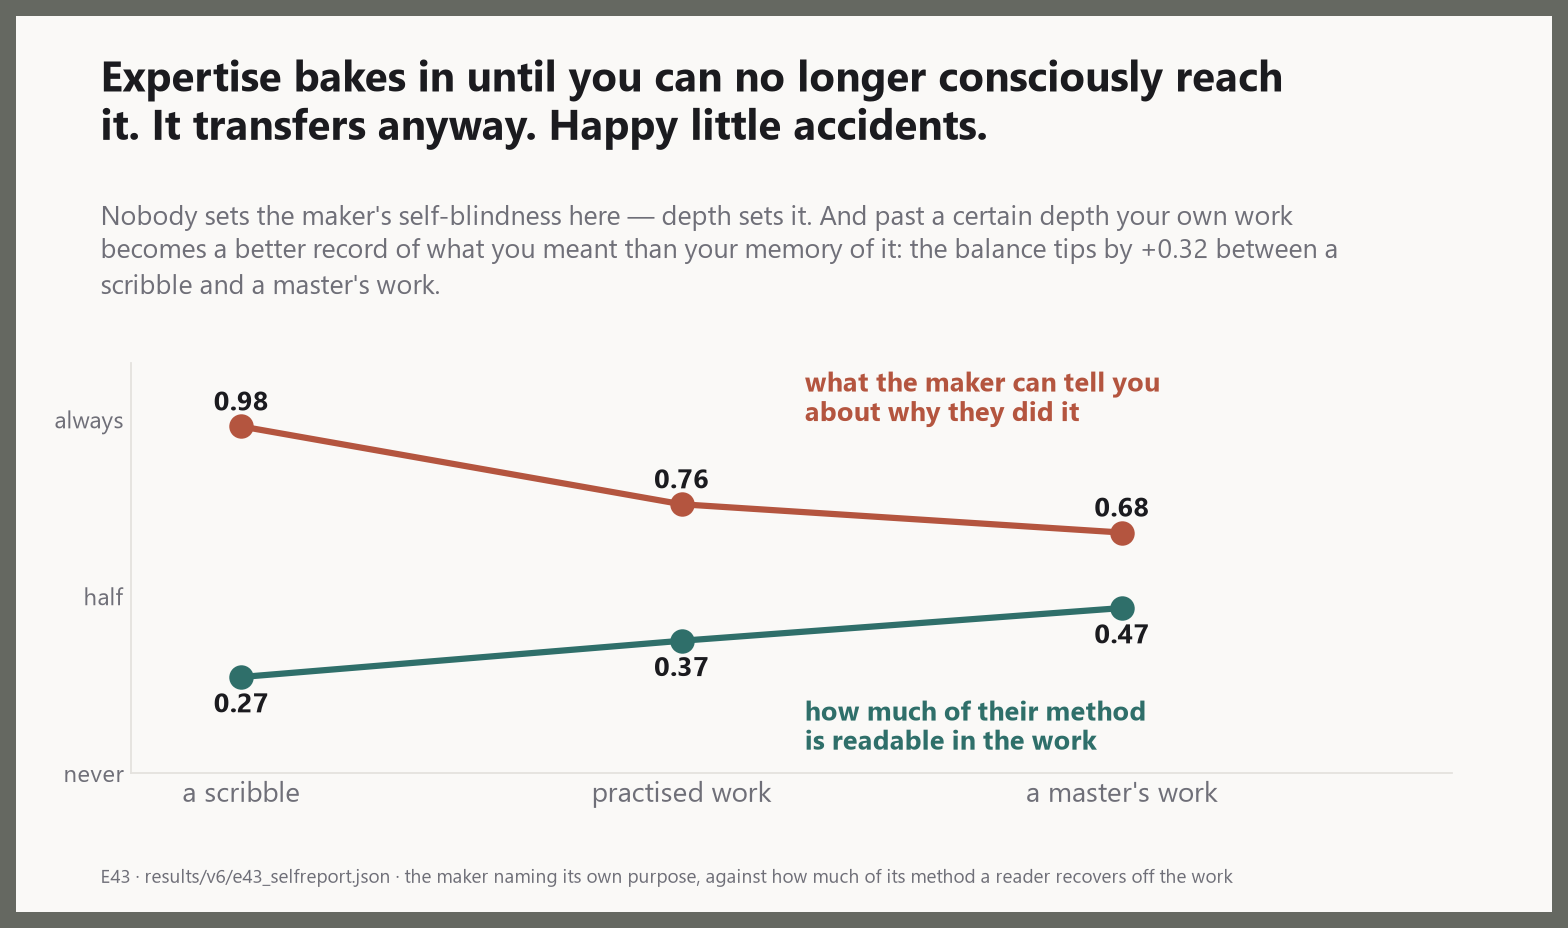
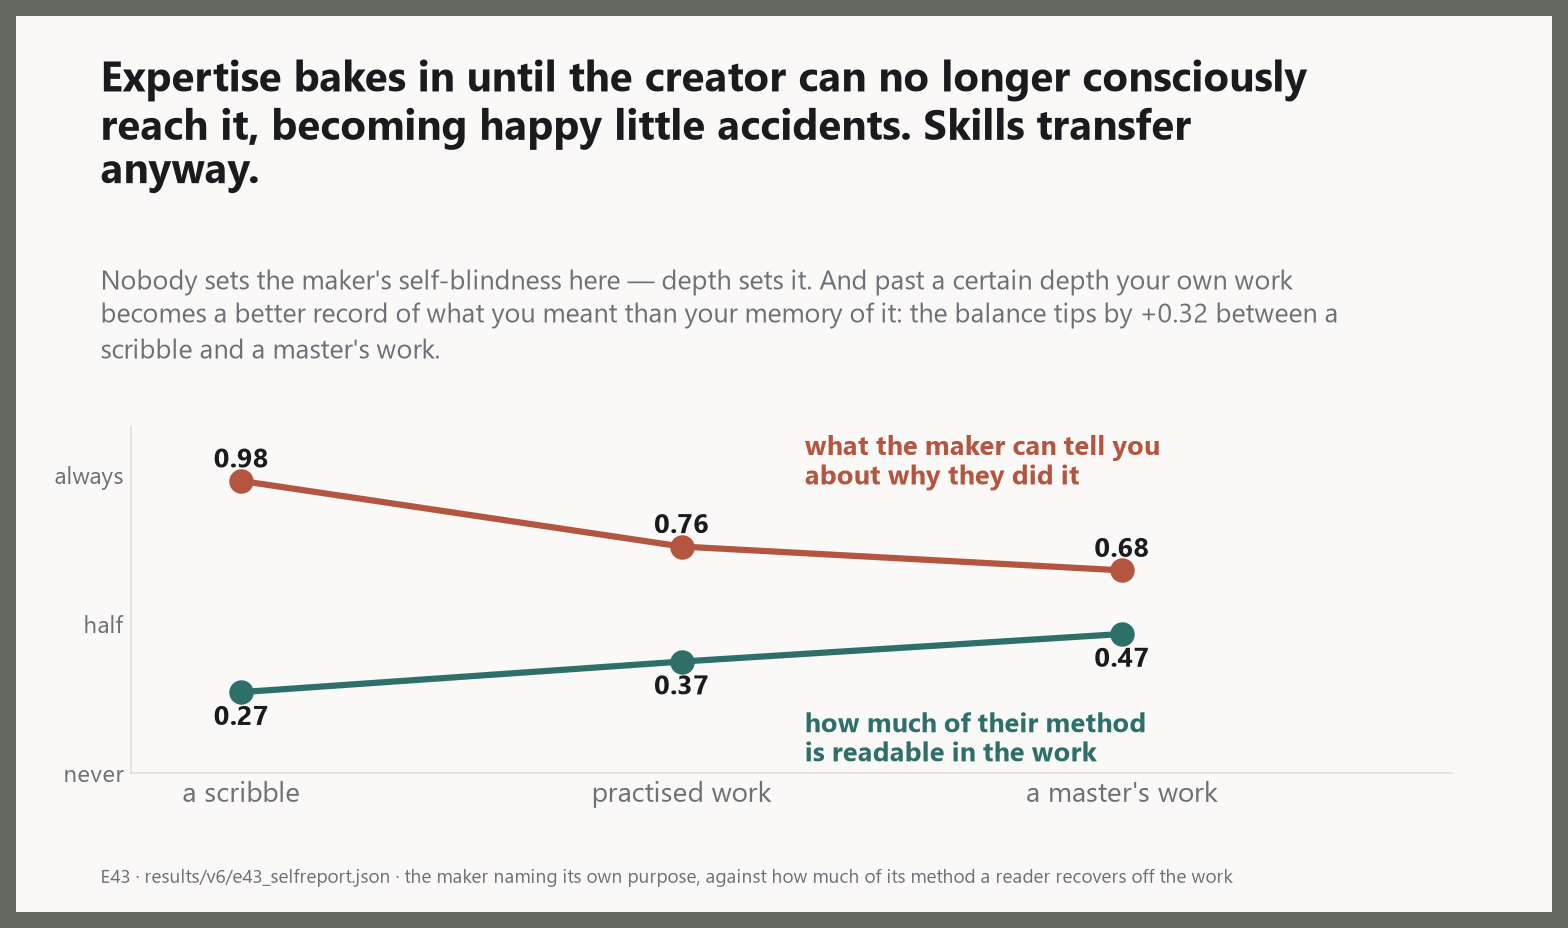
Plate 11 takes the author's revised title
"the creator" rather than "you", and "skills transfer anyway" rather than "it
transfers anyway" -- which is the more accurate of the two, because what the
green line measures is method recovered off the work, not the finding in
general. Both halves check out against E43: declared self-report falls 0.98 to
0.68 as depth sets automaticity, and method readable in the work rises 0.27 to
0.47 over the same range.

Carousels rebuilt.

diff --git a/scripts/make_walkthrough_plates.py b/scripts/make_walkthrough_plates.py
@@ -510,8 +510,8 @@ def plate_11_self_report():
 
     tip = load("v6/v11_two_confounds.json")["V-11b"]["the_interaction"]
     fig, ax = plate(
-        "Expertise bakes in until you can no longer consciously reach it. "
-        "It transfers anyway. Happy little accidents.",
+        "Expertise bakes in until the creator can no longer consciously reach it, becoming "
+        "happy little accidents. Skills transfer anyway.",
         f"Nobody sets the maker's self-blindness here — depth sets it. And past a certain depth "
         f"your own work becomes a better record of what you meant than your memory of it: the "
         f"balance tips by {tip['tipping']:+.2f} between a scribble and a master's work.",

diff --git a/WALKTHROUGH.md b/WALKTHROUGH.md
@@ -422,7 +422,7 @@ denominator they are not.
 120. The point estimate barely moved. Raising n after a null is a forking path and it is on the
 ledger.*
 
-### 22. Expertise bakes in
+### 22. Expertise bakes in, and skills transfer anyway
 
 ![The more practised the work, the less its maker can say why](figures/walkthrough/11_the_master_cannot_explain.png)
 
